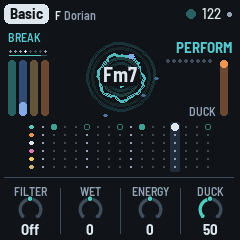
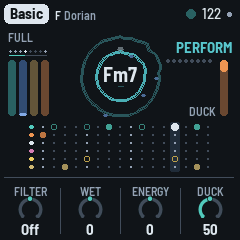
1.3.0: the manual's screenshots again (the shots script), their descriptions at Basic's new values

diff --git a/docs/MANUAL.md b/docs/MANUAL.md
@@ -287,7 +287,7 @@ GLO held on, RESET (red); SEL held, LOCK. Evolve's own nudges show no card.
 
 ## 4. The screen
 
-![The main screen on the Dub page: Basic, F Dorian, tempo 122; FULL and the phrase's eight dots top left, bars 4 and 8 brighter, the line to the next chord under them; DUB and the eight page dots top right; the ripples with the chord's name in the middle, the four level bars on the left, the duck meter on the right, the six lanes below; FILTER Off, EVOLVE 55, MOTION 50, DRIFT 32 bars](img/screen-main.png "The Dub page (HOME)")
+![The main screen on the Dub page: Basic, F Dorian, tempo 122; FULL and the phrase's eight dots top left, bars 4 and 8 brighter, the line to the next chord under them; DUB and the eight page dots top right; the ripples with the chord's name in the middle, the four level bars on the left, the duck meter on the right, the six lanes below; FILTER Off, EVOLVE 55, MOTION 30 (its ring marked at 40 and 70), DRIFT 64 bars](img/screen-main.png "The Dub page (HOME)")
 ![A Groove phrase: GROOVE lit top left, fewer stabs in the top lane; MOTION 100](img/screen-groove.png "A Groove")
 
 - **Top line:** the piece in a tag, its root and mode. On the right, a beat light (a play triangle
@@ -354,7 +354,7 @@ GLO held on, RESET (red); SEL held, LOCK. Evolve's own nudges show no card.
 - **The cards:** a long press's card, in the middle (see [The cards](#3-controls)).
 - **The level ring:** OCT− / OCT+'s, in the middle (see [Controls](#3-controls)).
 
-![The Space page with FEEDBACK lit as it turns, set to 5.7 s, the line above it saying HOW LONG THE REPEATS GO ON; ECHO 55, ECHO TIME 1/8., REVERB 35](img/screen-turning.png "Turning Feedback on the Space page")
+![The Space page with FEEDBACK lit as it turns, set to 6.7 s, the line above it saying HOW LONG THE REPEATS GO ON; ECHO 55, ECHO TIME 1/8., REVERB 35](img/screen-turning.png "Turning Feedback on the Space page")
 ![The scope: the output as a thick teal line over a dotted centre line, the two traces before it fading behind; Fm7 at the top](img/screen-scope.png "ALGORITHM: the scope")
 ![The spectrum: eighteen columns of teal and brass segments, a white cap over each; Fm7 at the top](img/screen-spectrum.png "ALGORITHM: the spectrum")
 ![Dub hold: red rings, the chord's name red, and "hold" in red above DUB, top right](img/screen-hold.png "Dub hold")
@@ -511,10 +511,10 @@ Tune, MIDI out and Lights are the same for all.
 
 | Piece | What it is |
 |---|---|
-| **Basic** | F Dorian, 122, after Basic Channel's *BCD*: held, saw stabs, short, into a clean dotted-eighth echo, the dry forward, almost no hats, narrow and dark, the kick on the floor; a new chord every 32 bars. |
+| **Basic** | F Dorian, 122, after Basic Channel's *BCD*: held, saw stabs, short, into a clean dotted-eighth echo, the dry forward, almost no hats, narrow and dark, the kick on the floor; a new chord every 64 bars. |
 | **Chamber** | A minor, 128, after Fluxion's *Vibrant Forms*: one chord that never moves (Drift on Hold), warm organ stabs up front, a long half-note echo, a drone bass, an even four, the steadiest loop, the noise ringing on the key (Room). |
 | **Steppers** | D Dorian, 126, after Maurizio's *M-Series*: the most frozen loop, one chord held, short saw stabs, a dotted bass, the open hat on the four "ands", real swing, clean. |
-| **Fog** | G minor, 120, after Echospace's *The Coldest Season*: pad stabs lost in a quarter-note echo and a big plate, very wide, hiss (Tape), offbeat hats, a drone bass, a kick that comes and goes, a rare Break; the chord moves every 32 bars. |
+| **Fog** | G minor, 120, after Echospace's *The Coldest Season*: pad stabs lost in a quarter-note echo and a big plate, very wide, hiss (Tape), offbeat hats, a drone bass, a kick that comes and goes, a rare Break; the chord moves every 64 bars. |
 | **Concrete** | C pentatonic minor, 136, after Monolake's *Hongkong*: the fastest. Chords stacked in fourths, short bright noise stabs, glassy pings over them, a rolling bass, loud hats, a clean dotted-eighth echo, deep filter sweeps, a vinyl crackle, the most rumble but one. |
 | **Night Drive** | Bb Dorian, 120, after Intrusion's *The Seduction of Silence*: FM keys, more pings, an offbeat bass with a deep sub, a dotted-quarter echo, very wide, a filter that's played; variations now and then; a new chord every 16 bars. |
 | **Pressure** | E Phrygian, 126, after Porter Ricks' *Biokinetics*: it never breaks; the kick and the bass forward with the most rumble, one chord held, a wide tape-noise bed under it, wide. |
@@ -610,7 +610,7 @@ the voice and the piece.
 
 ### HOME: Dub
 
-![The Dub page: FILTER Off, EVOLVE 55, MOTION 50, DRIFT 32 bars](img/screen-main.png "The Dub page")
+![The Dub page: FILTER Off, EVOLVE 55, MOTION 30 (its ring marked at 40 and 70), DRIFT 64 bars](img/screen-main.png "The Dub page")
 
 The song as it plays. **ALGORITHM** (here and on any page but a layer's, the Noise page or the Chords page): the middle of the screen as ripples, scope or
 spectrum (see [The screen](#4-the-screen)). **HOME** again: the Key page (below).
@@ -641,7 +641,7 @@ spectrum (see [The screen](#4-the-screen)). **HOME** again: the Key page (below)
 
 ### HOME again: Key
 
-![The Key page: TEMPO 122, ROOT F, MODE Dorian, SWING 52%](img/screen-key.png "The Key page")
+![The Key page: TEMPO 122, ROOT F, MODE Dorian, SWING 51%](img/screen-key.png "The Key page")
 
 The piece's key and time, which a dub track seldom changes. HOME blinks while you're here; HOME
 again goes back to the Dub page.
@@ -655,7 +655,7 @@ again goes back to the Dub page.
 
 ### ENV: Chord
 
-![The Chord page: SAWS, DENSITY 15, THROWS 70, WET 65, CUTOFF 45](img/screen-chord.png "The Chord page")
+![The Chord page: SAWS, DENSITY 30, THROWS 70, WET 45, CUTOFF 40](img/screen-chord.png "The Chord page")
 
 - **Density:** how many stabs a bar, from one (0 to 9) to six (90 and up), on a Euclidean pattern
   off the beat. Evolve may add or take one now and then, leave one out, or rest a whole bar.
@@ -730,7 +730,7 @@ Room, Concrete on Vinyl too, Haze on Dust, Pressure a quieter, darker Vinyl.
 
 ### SAVE again: Noise space
 
-![Noise space: VINYL, WIDTH 50, PLATE 50, ECHO 50, LFO 40, the noise's spectrum in the middle](img/screen-noise-space.png "Noise space")
+![Noise space: VINYL, WIDTH 50, PLATE 50, ECHO 50, LFO 25, the noise's spectrum in the middle](img/screen-noise-space.png "Noise space")
 
 Where the noise sits, and how it moves. SAVE blinks while you're here; SAVE again goes back to
 the Noise page. ALGORITHM still turns its character. 50 is the noise as the pieces have it:
@@ -751,7 +751,7 @@ PERFORM's Wet moves the noise too: its dry down and its plate and echo up, or th
 
 ### LFO: Bass
 
-![The Bass page: SUB, DENSITY 75, OCTAVE 0, GROOVE Offbeat, FIFTH 20](img/screen-bass.png "The Bass page")
+![The Bass page: SUB, DENSITY 90, OCTAVE 0, GROOVE Offbeat, FIFTH 20](img/screen-bass.png "The Bass page")
 
 - **Density:** how many of the groove's notes play. At 100, every one; lower, some are left out
   (at 50 about half), the bar's first note always kept. Which ones is drawn once a phrase (the
@@ -768,7 +768,7 @@ PERFORM's Wet moves the noise too: its dry down and its plate and echo up, or th
 
 ### SEQ: Drums
 
-![The Drums page: TIGHT, DENSITY 85, HITS 35, HATS 50, TONE 0](img/screen-drums.png "The Drums page")
+![The Drums page: TIGHT, DENSITY 97, HITS 10, HATS 40, TONE 0](img/screen-drums.png "The Drums page")
 
 - **Density:** the kick's shape, chosen a phrase at a time: none, the downbeat alone, one and three,
   four with two and four ghosted (10 dB down), or four on the floor. Density is where the shapes
@@ -812,7 +812,7 @@ Auto's (the bass still plays its plan). The patterns are kept with the piece.
 
 ### FX: Space
 
-![The Space page: ECHO 55, ECHO TIME 1/8., FEEDBACK 5.3 s, REVERB 35](img/screen-space.png "The Space page")
+![The Space page: ECHO 55, ECHO TIME 1/8., FEEDBACK 6.3 s, REVERB 35](img/screen-space.png "The Space page")
 
 - **Echo:** how much goes to the echo.
 - **Echo time:** the tape loop's length: an eighth, a dotted eighth, a quarter, a dotted quarter, a
@@ -827,7 +827,7 @@ Auto's (the bass still plays its plan). The patterns are kept with the piece.
 
 ### FX again: Echo
 
-![The Echo page: BLUR 50, TONE 50, WIDTH 50, SIZE 55](img/screen-echo.png "The Echo page")
+![The Echo page: BLUR 25, TONE 50, WIDTH 40, SIZE 55](img/screen-echo.png "The Echo page")
 
 FX on the Space page opens the Echo page (FX blinks while you're here); FX again goes back. The
 four are 0 to 100; 50 is the echo as the pieces have it.
@@ -981,7 +981,7 @@ The defaults are Basic's; each piece has its own.
 | Dub | Filter | Shut 100 – Off – Open 100 (for playing, not saved) | Off |
 | Dub | Evolve | 0–100 | 55 |
 | Dub | Motion | 0–100 (under 40 held, 40–70 variations, 70– Breaks) | 30 |
-| Dub | Drift | 2, 4, 8, 16, 32, 64 bars, Hold | 32 bars |
+| Dub | Drift | 2, 4, 8, 16, 32, 64 bars, Hold | 64 bars |
 | Chord | Density | 0–100 (1 to 6 stabs a bar) | 30 |
 | Chord | Throws | 0–100 (none – about 1 stab in 8 at 50 – about 1 in 3) | 70 |
 | Chord | Wet | 0–100 (the dry 0 dB – −6 dB at 50 – −20 dB) | 45 |
